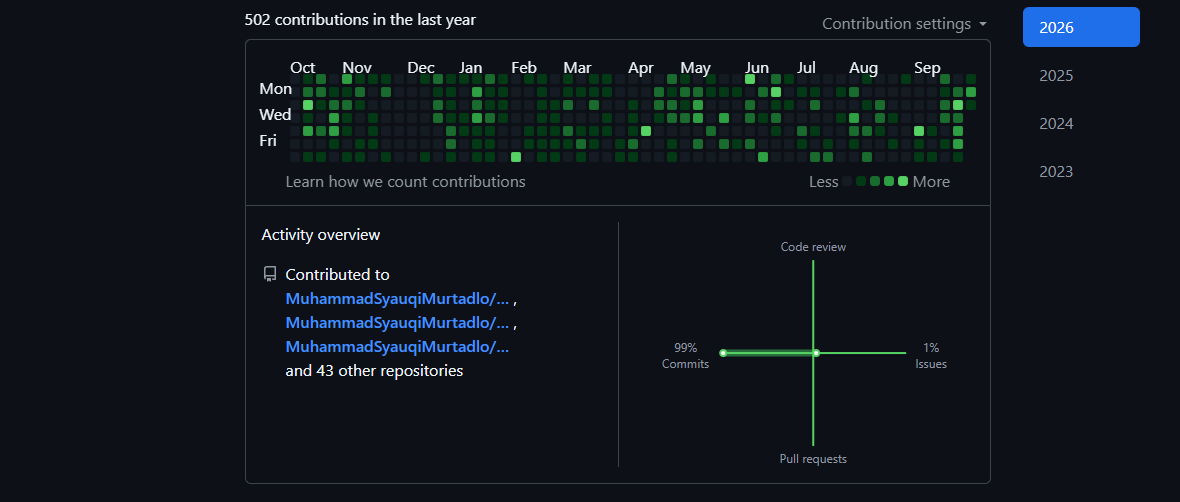
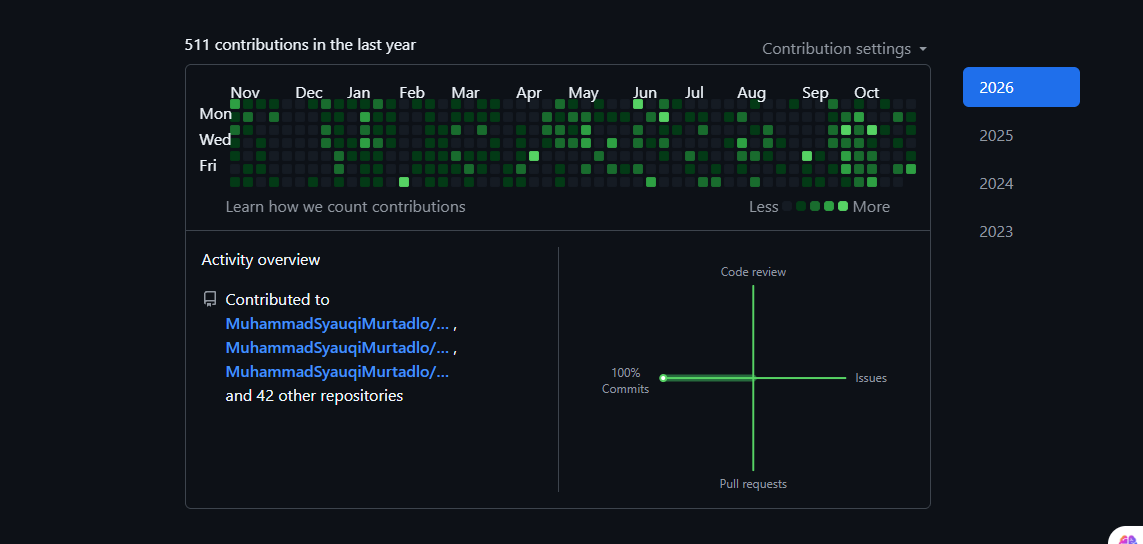
Update year on the project and contribution graph GitHub

diff --git a/index.html b/index.html
@@ -376,7 +376,7 @@
               <div class="timeline__content">
                 <div class="timeline__head">
                   <h3 class="timeline__role">Web Developer Intern</h3>
-                  <span class="timeline__period">Dec 2025 — Jan 2026</span>
+                  <span class="timeline__period">Dec 2025 — Feb 2026</span>
                 </div>
                 <p class="timeline__company">
                   Ministry of Religious Affairs of Jombang Regency · Jombang
@@ -402,7 +402,7 @@
               <div class="timeline__content">
                 <div class="timeline__head">
                   <h3 class="timeline__role">Freelance Web Developer</h3>
-                  <span class="timeline__period">Sept 2026 — Present</span>
+                  <span class="timeline__period">Sept 2026 — Oct 2026</span>
                 </div>
                 <p class="timeline__company">
                   SI-IMUT Performance Evaluation Project · Remote
